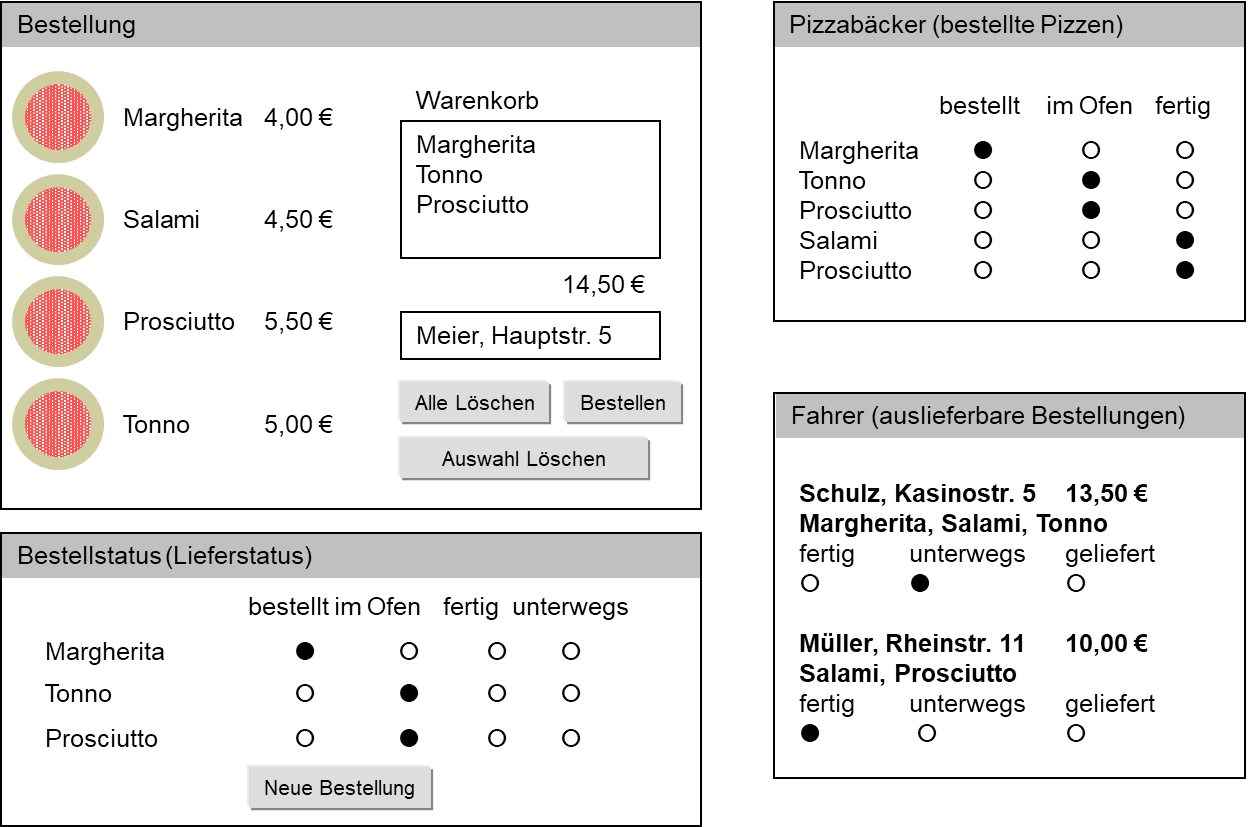
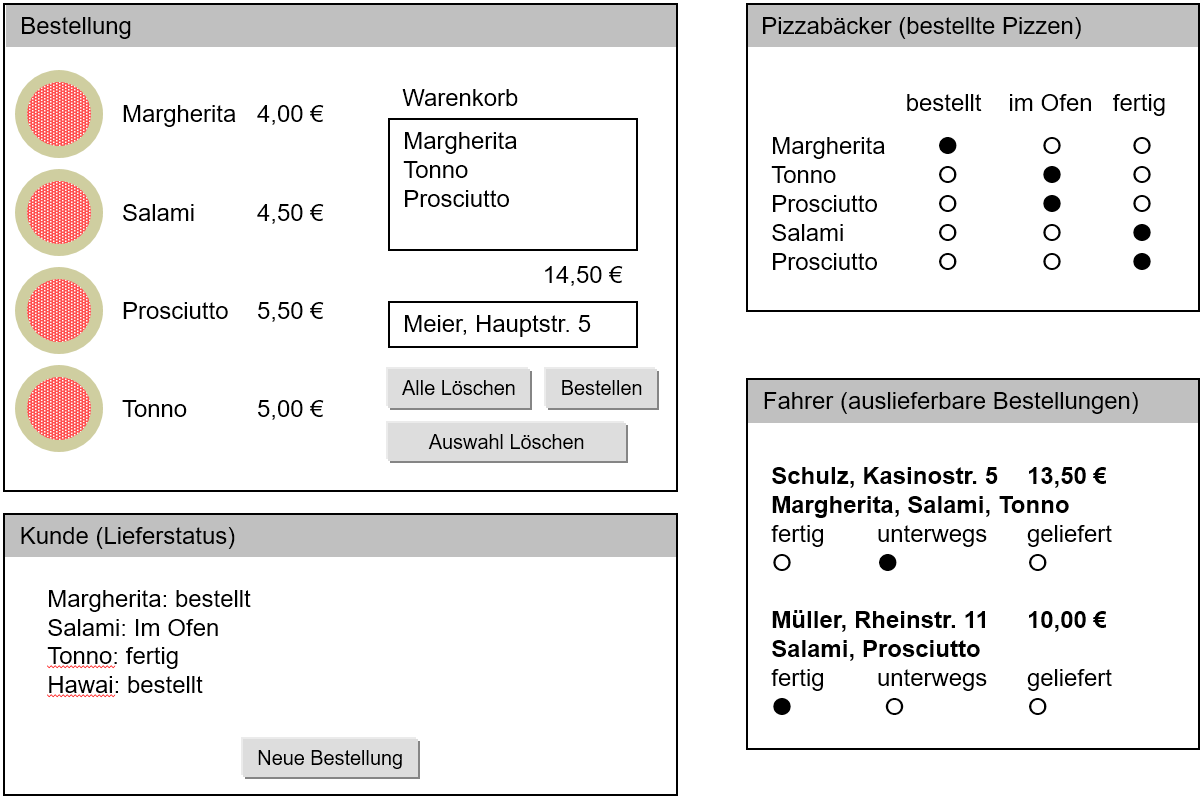
Endlich fertig!?

diff --git a/ewa/ewa2.0/praktikum/v1/html/docs/termin4.md b/ewa/ewa2.0/praktikum/v1/html/docs/termin4.md
@@ -10,7 +10,7 @@
     - [ ] Sie können JSON-Daten clientseitig verarbeiten 
 
 In dieser Einheit geht es um die client-seitige Implementierung der Interaktion zwischen BenutzerIn und Anwendung. Hierfür setzen wir **JavaScript** ein und modifizieren damit die angezeigten Webseite mit Hilfe des DOM (=Document Object Model) – bspw. zum Befüllen des Warenkorbs.
-Ferner steht in dieser Einheit auch die **asynchrone Kommunikation** zwischen Server und Client mittels **AJAX** und **JSON** im Vordergrund, so dass Statusänderungen auf der Kundenseite *ohne* Neuladen der Seite in "Quasi-Echtzeit" sichtbar werden. 
+Ferner steht in dieser Einheit auch die **asynchrone Kommunikation** zwischen Server und Client mittels **AJAX** und **JSON** im Vordergrund, so dass Statusänderungen auf der Kundenseite *ohne* Neuladen der Seite sichtbar werden. 
 
 ## Vorbereitung   
 
@@ -20,28 +20,7 @@ Ferner steht in dieser Einheit auch die **asynchrone Kommunikation** zwischen Se
      **Voraussetzung:** Ihre vier Seiten sind weitgehend vollständig und voll funktional. Es fehlen nur noch das Design und die Interaktionsmöglichkeit mit dem Warenkorb (Einfügen / Löschen / Preisberechnung).
      Zusätzlich haben Sie eine Klasse `KundenStatus` implementiert, die serverseitig die Daten für die Kundenseite liefert.
 
-     1. Implementierung der Bestellfunktionalität mittels JavaScript
-
-        Binden Sie eine gemeinsame EcmaScript-Datei für alle Ihre Webseiten ein. Implementieren Sie anschließend die folgenden Funktionen auf der Bestellseite:  
-
-        1. Ein Klick auf ein Pizzabild trägt diese Pizza in den Warenkorb ein;  
-                bspw. 3 Pizzen bestellen --> 3-mal klicken
-        2. Der Preis der Pizzen im Warenkorb wird berechnet und angepasst, wenn sich der Warenkorb ändert (durch Einfügen oder Löschen).     
-            Tipp: `:::js xxx.toFixed(2)` macht aus einer Zahl xxx einen String mit 2 Nachkommastellen und vermeidet Rundungsfehler!
-        3. "Beleben" Sie die Buttons zum Löschen der Einträge im Warenkorb 
-                    - sowohl "Alle löschen" als auch 
-                    - "(Mehrfach-)Auswahl löschen" (mit Festhalten von Ctrl bei der Auswahl)
-        4. Die Bestellung wird nur abgeschickt, wenn eine Lieferadresse angegeben ist und sich mindestens ein Element im Warenkorb befindet. Ansonsten ist der Bestellknopf deaktiviert.
-
-
-     2. Abschicken von Formularen ohne Submit-Button
-
-        Auf der Bäcker- und Fahrerseite wird bisher ein Submit-Button verwendet, um die Seite abzuschicken.
-
-        1. Ändern Sie die Generierung der Seiten so ab, dass sie abgeschickt werden, wenn ein Radiobutton angeklickt wird.   
-        Tipp: Dazu geben Sie dem &lt;form&gt;, das die Radiobuttons umschließt, eine ID (z.B. `:::html <form id="formid">`) und verwenden diese ID und `onclick` bei den Radiobuttons um das Formular beim Anklicken abzuschicken:  
-        `:::html <input type="radio" name=... 	onclick="document.forms['formid'].submit();" />`
-        1. Entfernen Sie die Submit-Buttons.
+     Machen Sie sich mit EcmaScript und DOM vertraut. Versuchen Sie als Vorbereitung *ernsthaft* die Aufgabe "Clientseitige Interaktion durch EcmaScript" (s.u.) zu lösen. 
 
 !!! warning  
     **Hinweise**:
@@ -67,15 +46,40 @@ Ferner steht in dieser Einheit auch die **asynchrone Kommunikation** zwischen Se
 
 ## Aufgaben
 
+### Clientseitige Interaktion durch EcmaScript
+
+1. Implementierung der Bestellfunktionalität mittels JavaScript
+
+    Binden Sie eine gemeinsame EcmaScript-Datei für alle Ihre Webseiten ein und implementieren Sie anschließend die folgenden Funktionen auf der Bestellseite:  
+
+    - Ein Klick auf ein Pizzabild trägt diese Pizza in den Warenkorb ein;  
+            bspw. 3 Pizzen bestellen --> 3-mal klicken
+    - Der Preis der Pizzen im Warenkorb wird berechnet und angepasst, wenn sich der Warenkorb ändert (durch Einfügen oder Löschen).     
+        Tipp: `:::js xxx.toFixed(2)` macht aus einer Zahl xxx einen String mit 2 Nachkommastellen und vermeidet Rundungsfehler!
+    - "Beleben" Sie die Buttons zum Löschen der Einträge im Warenkorb 
+                - sowohl "Alle löschen" als auch 
+                - "(Mehrfach-)Auswahl löschen" (mit Festhalten von Ctrl bei der Auswahl)
+    - Die Bestellung wird nur abgeschickt, wenn eine Lieferadresse angegeben ist und sich mindestens ein Element im Warenkorb befindet. Ansonsten ist der Bestellknopf deaktiviert.
+
+
+2. Abschicken von Formularen ohne Submit-Button
+
+    Auf der Bäcker- und Fahrerseite wird bisher ein Submit-Button verwendet, um die Seite abzuschicken.
+
+    - Ändern Sie die Generierung der Seiten so ab, dass sie abgeschickt werden, wenn ein Radiobutton angeklickt wird.   
+    Tipp: Dazu geben Sie dem &lt;form&gt;, das die Radiobuttons umschließt, eine ID (z.B. `:::html <form id="formid">`) und verwenden diese ID und `onclick` bei den Radiobuttons um das Formular beim Anklicken abzuschicken:  
+    `:::html <input type="radio" name=... 	onclick="document.forms['formid'].submit();" />`
+    - Entfernen Sie die Submit-Buttons. 
+
+
 ### Aktualisierung der Kundenseite mittels AJAX und JSON
 
 Die Kundenseite soll den Status der Pizzen aktualisieren ohne jedesmal die gesamte Seite neu zu laden. Zwischen Server und Client werden dann nur noch die reinen Daten ausgetauscht und kein HTML-Code mehr. Die Daten werden mit EcmaScript und DOM in die Webseite "eingebaut". Das Anfordern der Daten erfolgt mit AJAX und die Übertragung erfolgt im JSON-Format.  
-Anschließend aktualisiert die Kundenseite (`Kunde.php`) mittels JavaScript und AJAX den Status aller Bestellpositionen in Quasi-Echtzeit, ohne die Seite jeweils neu laden zu müssen. D.h., sobald sich der Status einer Bestellposition auf der Bäcker- oder Fahrer-Seite ändert, soll sich diese Änderung auch auf der Kundenseite widerspiegeln. 
+Anschließend aktualisiert die Kundenseite (`Kunde.php`) mittels JavaScript und AJAX den Status aller Bestellpositionen, ohne die Seite jeweils neu laden zu müssen. D.h., sobald sich der Status einer Bestellposition auf der Bäcker- oder Fahrer-Seite ändert, soll sich diese Änderung auch auf der Kundenseite widerspiegeln. 
 
 Die serverseitige Implementierung, welche die Daten liefert, haben Sie bereits in der letzten Übung implementiert (`KundenStatus.php`).
 
 1. **Schreiben Sie eine EcmaScript-Methode, welche die gelieferten Daten auswertet und über das DOM in die Kundenseite einfügt.**    
-    {++**Zur Vereinfachung dürfen Sie die Anzeige mit Radiobuttons durch eine *textuelle* Anzeige ersetzen. Das heißt, Sie geben einfach für jede Pizza den Status als Text aus (z.B. "Pizza Hawaii: Im Ofen")**. !!!Ohne jQuery, innerhtml & Co. ist das sonst eine elende Fummelei! Wir könnten auch die Designskizze gleich so anpassen!? Warum machen wir überhaupt 3x Radiobuttons?? ++}
      - Rufen Sie die Seite `KundenStatus.php` während einer laufenden Bestellung in einem Browserfenster auf und speichern Sie den gelieferten JSON-String für spätere Tests als Konstante in Ihrer Methode.
      - Binden Sie zu Beginn des HTML-&lt;body&gt; der Kundenseite eine separate JS-Datei ein. Also mit `... <body><script src="StatusUpdate.js"></script>...`
      - Implementieren Sie die EcmaScript-Methode `:::js process()`, die als Parameter einen (JSON-)String erhält, den String mit `:::js JSON.parse` auspackt und mittels DOM in die Kundenseite einfügt.   
@@ -114,7 +118,6 @@ Die serverseitige Implementierung, welche die Daten liefert, haben Sie bereits i
 
 3.  **Führen Sie die Aktualisierung mit AJAX alle 2 Sekunden durch**    
     -  Die Anfrage nach den aktuellen Zuständen einer Bestellung erfolgt mittels zyklisch ausgeführten AJAX-Aufrufen (*=Polling*) durch folgende EcmaScript-Funktion:    
-        {--`:::js setTimeout( function , timeout_in_milliseconds);`--}     
         `:::js window.setInterval	(myfunction, time_in_milliseconds)`   
         Dabei repräsentiert `myfunction` eine JavaScript-Funktion, die zyklisch aufgerufen werden soll. In unserem Fall ist das die Funktion `:::js requestData()` von oben, welche jeweils einen AJAX-Request anlegt und abschickt.
     - Das Polling soll erst starten, nachdem die Seite `Kunde.php` komplett vom Browser geladen und geparst wurde. Bauen Sie den Aufruf im `onload`-Handler ein.
@@ -123,10 +126,14 @@ Die serverseitige Implementierung, welche die Daten liefert, haben Sie bereits i
     !!! note
         **Hinweis**:
         Falls die Aktualisierung immer wieder die gleichen Daten liefert, dann könnte das am Cache Ihres Browsers liegen. 
-        Bauen Sie dann die folgenden Codezeilen am Anfang von `processReceivedData()` in Ihre `KundenStatus.php` ein: 
+        Bauen Sie dann die folgenden Codezeilen ganz am Anfang von `processReceivedData()` in Ihre `KundenStatus.php` ein: 
             ```js  
-            header("Cache-Control: no-cache, must-revalidate"); // HTTP/1.1
+            header("Cache-Control: no-store, no-cache, must-revalidate"); // HTTP/1.1
             header("Expires: Sat, 01 Jul 2000 06:00:00 GMT"); // Datum in der Vergangenheit
+            header("Cache-Control: post-check=0, pre-check=0", false); // fuer IE
+            header("Pragma: no-cache");
+            session_cache_limiter('nocache'); // VOR session_start()!
+            session_cache_expire(0);
             ```
 
 
@@ -163,13 +170,6 @@ Die serverseitige Implementierung, welche die Daten liefert, haben Sie bereits i
 
     - Aufbau der Seite mittels PHP; setzen bzw. aktualisieren der Zustände mit JavaScript
     - 2 separate AJAX-Requests: (a) pollt Statusupdates, (b) fragt Controller nach neuen Bestellungen; wenn neue Bestellung, dann Redirect im AJAX-Handler auf Kunde.php, d.h., Neuaufbau der Seite mit aktueller Bestellung)  -->
-
-
-TODO:
-
-- SZA liefert header-code für JSON
-- SZA liefert code gegen caching
-- 
 
 ## Nachbereitung
 Setzen Sie noch eventuell fehlende Teile der obigen Aufgabe bis zum nächsten Praktikumstermin um. 

diff --git a/ewa/ewa2.0/praktikum/v1/html/docs/termin2.md b/ewa/ewa2.0/praktikum/v1/html/docs/termin2.md
@@ -17,25 +17,18 @@ Ziel dieser Einheit ist die Entwicklung von sauberem, d.h., gut wartbarem,  stru
 
       **Voraussetzung:** Die vier in [Termin 1](termin1.md) erstellten PHP-Seiten werden ordnungsgemäß vom Webserver ausgeliefert und erzeugen  standardkonformen HTML-Code.
       
-      1. Laden Sie die **Zulieferung** für das Praktikum von der [EWA-Moodleseite](https://lernen.h-da.de/course/view.php?id=6940) herunter und machen Sie sich mit dem Inhalt vertraut:    
-      {++Machen wir einen gemeinsamen Kurs? Wer?++}   
+      1. Laden Sie die **Zulieferung** für das Praktikum von der EWA-Moodleseite herunter und machen Sie sich mit dem Inhalt vertraut:      
          - `PageTemplate.php` dient als Vorlage für die Seiten `Bestellung.php`, `Kunde.php`, `Baecker.php` und `Fahrer.php`    
          - `Page.php` ist die gemeinsame Basisklasse dieser 4 Seiten-Klassen und soll die Datenbank öffnen und schließen und den HTML-Rahmen erzeugen
          - `BlockTemplate.php` dient (optional) als Vorlage für einzelne Blöcke innerhalb der Seiten
          - `Pizzaservice_Documentation.pdf` enthält eine Dokumentation der Klassen mit Klassendiagramm und Sequenzdiagramm.
-      1. Versuchen Sie mit der Dokumentation und dem Quellcode das **Zusammenspiel der verschiedenen Klassen** zu verstehen. Klären Sie folgende Fragen:    
+      2. Versuchen Sie mit der Dokumentation und dem Quellcode das **Zusammenspiel der verschiedenen Klassen** zu verstehen. Klären Sie folgende Fragen:    
          - Wo erfolgt der eigentliche Aufruf zur Erstellung einer HTML-Seite?
          - Was tun die Methoden `getViewData()`, `generateView()` und `processReceivedData()`? In welcher Reihenfolge werden sie aufgerufen?
          - Wo wird der HTML-Rahmen mit &lt;body&gt; und &lt;head&gt; erzeugt? Wo wird er ausgegeben?
-      2. Entwerfen Sie das **Datenmodell** für Ihren Pizzaservice. 
-      Nutzen Sie bspw. das folgende Schema:
-       {--     ``` 
-            Angebot:         PizzaName, Bilddatei, Preis
-            BestelltePizza:  PizzaID, fBestellungID, fPizzaName, Status
-            Bestellung:      BestellungID, Adresse, Bestellzeitpunkt
-            ```
-      --}    
-      {++Die Pizza über den Namen zu referenzieren ist eigentlich ungeschickt. Eine eindeutige PizzaNummer wäre doch besser!?...++}
+      3. Entwerfen Sie das **Datenmodell** für Ihren Pizzaservice. 
+      Nutzen Sie beispielsweise das folgende Schema:
+
             ``` 
             Angebot:         PizzaNummer, PizzaName, Bilddatei, Preis
             BestelltePizza:  PizzaID, fBestellungID, fPizzaNummer, Status
@@ -96,11 +89,17 @@ Am besten führen Sie die folgenden Aufgaben zuerst für **eine** der Seiten (z.
         - Prüfen Sie mit `phpMyAdmin` ob die Datenbankeinträge korrekt erstellt werden. Denken Sie daran, die Formulare so anzupassen, dass sie ihre Daten nicht mehr an die Echo-Skripte schicken, sondern an die tatsächliche Zielseite.
         - Eine geschickte Datenbankabfrage (z.B. mit einem `JOIN` oder `ORDER BY`) kann Ihnen viel Implementierungsaufwand ersparen.
 
-{++ ###Auflösung von Blockierungen bei Aktualisierungen
-Wenn eine Webseite geladen wird, die ein Formular enthält, das zuvor mittels POST Daten übertragen hat, dann erscheint ein (recht unverständliches) Popup.
-![](./figures/POST_ReloadPopup.png)*Popup durch Reload mit POST-Daten)* Diese Blockierung können Sie auflösen, indem Sie die Seite aus der Seite selbst *ohne Daten* neuladen, nachdem Sie die Daten in processReceivedData() verarbeitet haben. Der PHP-Befehl `:::php header('Location: http://meineSeite.php/');` lädt eine beliebige Seite. Achten Sie aber darauf, dass dieser "Redirect" wirklich nur dann ausgeführt wird, wenn Sie auch tatsächlich Daten empfangen haben - ansonsten entsteht eine Endlosschleife.    
+### Auflösung von Blockierungen bei Aktualisierungen
+Wenn eine Webseite mit einem Formular geladen wird, das zuvor mittels POST Daten gesendet hat, dann bringt der Browser ein (recht unverständliches) Popup und blockiert dadurch die Aktualisierung.
+![](./figures/POST_ReloadPopup.png)*Popup durch Reload mit POST-Daten)*      
+Lösen Sie diese Blockierung auf, indem Sie beim Aufruf der Seite zuerst die Daten verarbeiten und dann die Seite (ohne Daten) neuladen:     
+
+ - Verarbeiten Sie die Daten in processReceivedData() 
+ - laden Sie mit dem  PHP-Befehl `:::js header('Location: http://meineSeite.php/');` die gleiche Seite erneut - aber dieses mal ohne Daten. 
+ - Jetzt können Sie die Seite ohne Blockierung aktualisieren.    
+ 
+Achten Sie aber darauf, dass dieser "Redirect" wirklich nur dann ausgeführt wird, wenn Sie auch tatsächlich Daten empfangen haben - ansonsten entsteht eine Endlosschleife.    
 **Hinweis**: Das Umstellen der Übertragung auf GET ist keine zulässige Lösung!
-++}
 
 ## Nachbereitung
 Setzen Sie noch fehlende Teile der obigen Aufgabe bis zum nächsten Praktikumstermin um. 

diff --git a/ewa/ewa2.0/praktikum/v1/html/docs/termin4_5.md b/ewa/ewa2.0/praktikum/v1/html/docs/termin4_5.md
@@ -8,7 +8,7 @@ Ziel dieser Einheit ist die Entwicklung eines **Design Schemas** für Ihre Web-A
     - [ ] Sie kennen die Basiselemente von CSS zur Gestaltung eines Designs  
     - [ ] Sie können ein responsives Webdesign mit CSS und Media Queries erstellen
     - [ ] Sie können ein selbst erstelltes Design Schema in Ihre Webseiten einbinden 
-    - [ ] Sie kennen Syntax und Logik der Formulierung von CSS Selektoren {++ Welche Selektoren meinst Du? Ich finde nicht, dass man die komplizierten Fälle in den Grundlagen braucht!? ++}
+    - [ ] Sie kennen Syntax und Logik der Formulierung von CSS Selektoren
 
 !!! warning
     **Selbständige Vorbereitung:**     
@@ -22,14 +22,13 @@ Entwickeln Sie ein **ansprechendes Style Sheet** für Ihre Web-Applikation und b
  - Überlegen Sie sich zu diesem Zweck ein **Design-Schema** mit Farben, Schriftarten, Schriftgrößen, Abständen, Rändern, Ausrichtung, etc.
  - Verwenden Sie *keine* physische Formatierung in HTML und auch *kein* `style`-Attribut
  - Setzen Sie die verschiedenen Maßeinheiten sinnvoll ein. Das Layout soll hinsichtlich Fenstergröße und Schriftgröße dynamisch sein!
- - Verwenden Sie möglichst *keine* Tabellen! {++ Wie streng sehen wir das? ++}
  - Prüfen Sie das Ergebnis mit dem CSS-Validator
  - Testen Sie Ihr Style Sheet mit unterschiedlichen Browsern und validieren Sie die Standardkonformität mittels eines "CSS Validators". Besonders bei unerwartetem Verhalten des Browsers gibt ein Validator wertvolle Hinweise auf die mögliche Ursache der Probleme.
 Nutzen Sie <https://jigsaw.w3.org/css-validator/#validate_by_input> und korrigieren Sie etwaige Fehler und Warnungen.
 
 ### Responsives Layout und Mobile-First-Ansatz
 
-Realisieren Sie die Darstellung der Seite `Bestellung.php` nach dem **Mobile-First-Ansatz**. {++ Mir ist nicht klar was das konkret bedeutet. Was soll denn passieren? ++}
+Realisieren Sie die Darstellung der Seite `Bestellung.php` nach dem **Mobile-First-Ansatz**. Das heißt, Sie entwickeln die Seite zuerst im Hinblick auf eine gute *User Experience* (UX) auf dem Handy und erst dann für einen PC-Bildschirm.
 
  - Entwickeln bzw. erweitern Sie das gegebene Stylesheet für den Einsatz auf Mobiltelefonen durch die Verwendung von **Media Queries**
  - Passen Sie die Komposition der Elemente dynamisch der entspr. **Viewportgröße** und **Orientierung** an
@@ -45,8 +44,8 @@ Realisieren Sie die Darstellung der Seite `Bestellung.php` nach dem **Mobile-Fir
     - [x] Demonstration eines responsiven Webdesigns mit Media Queries am Beispiel der Bestellseite
 
 
-{--!!! note
-    **Hinweis #1**: Sie können für das Design Ihres Shopsystems ein CSS-Framework wie [Bootstrap](https://getbootstrap.com/) verwenden. Bitte beachten Sie jedoch, dass Sie in der Klausur *nicht* auf Bootstrap zurück greifen dürfen und stattdessen die CSS-Stilregeln "von Hand" erstellen müssen.--}
+!!! note
+    **Hinweis**: Sie können für das Design Ihres Shopsystems ein CSS-Framework wie [Bootstrap](https://getbootstrap.com/) verwenden, um ein besonders ausgefeiltes Design zu erhalten. Bitte beachten Sie jedoch, dass Sie in der Klausur *nicht* auf Bootstrap zurück greifen dürfen und stattdessen die CSS-Stilregeln "von Hand" erstellen müssen.
 
 
 !!! warning

diff --git a/ewa/ewa2.0/praktikum/v1/html/docs/termin5.md b/ewa/ewa2.0/praktikum/v1/html/docs/termin5.md
@@ -34,11 +34,10 @@ Für eine erfolgreiche Abnahme müssen **alle Punkte** erfüllt sein!
     **Checkliste**
 
     1. Allgemeines
-         - [ ] Konsequente Verwendung der PHP-Seitenklassen für alle Seiten und auch für den PHP Controller {++Für mich ist das kein Controller (vgl. MVC)! Deshalb habe ich mich um den Namen drumrumgedrückt++}
-         - [ ] Alle generierten Seiten werden vom W3C Validator als fehlerfrei erkannt {++ und HTML Lint zeigt keine Meldungen mit Schwierigkeitsgrad > 2 ?++}
+         - [ ] Konsequente Verwendung der PHP-Seitenklassen für alle Seiten 
+         - [ ] Alle generierten Seiten werden vom W3C Validator als fehlerfrei erkannt und "HTML Lint" zeigt keine Meldungen mit Schwierigkeitsgrad > 2.
          - [ ] Die Web-Applikation ist gesichert gegen Cross-Site-Scripting (XSS) und gegen SQL-Injection
          - [ ] Erfasste Daten werden (bis auf Angriffsversuche) unverändert in die Datenbank geschrieben 
-         - [ ] Es sind keine Tabellen im HTML-Code enthalten {++Das wird knifflig mit so wenig CSS!? Wenn, dann auch vorne fordern!++} 
          - [ ] Es gibt entweder eine Übersichtsseite oder eine ausblendbare Navigationsleiste mit Links zu den 4 Hauptseiten. 
     2. Funktion 
          - [ ] Eine direkt in die Datenbank eingetragene Pizza erscheint nach einem Reload auf der Speisekarte
@@ -52,9 +51,8 @@ Für eine erfolgreiche Abnahme müssen **alle Punkte** erfüllt sein!
          - [ ] Bestellungen verschwinden nach der Auslieferung von der Fahrerseite 
          - [ ] HTML-Tags im Adressfeld einer Bestellung (XSS) werden auf der Fahrerseits **nicht** ausgeführt
     3. Layout
-         - [ ] Responsives Layout + Verwendung von Media Queries {++ Was heißt das konkret ++}
          - [ ] Ansprechendes Design
-         - [ ] Auf der Bestellseite rutscht der Warenkorb je nach Bildschirmbreite neben oder unter die Speisekarte
+         - [ ] Auf der Bestellseite verwenden Sie Media Queries um ansprechende Layouts für mindestens 2 Bildschirmformate umzusetzen. Der Warenkorb rutscht je nach Bildschirmbreite und Ausrichtung neben oder unter die Speisekarte
          - [ ] Keine Verwendung von absoluten Maßeinheiten (außerhalb von Media Queries)
 
 

diff --git a/ewa/ewa2.0/praktikum/v1/html/docs/termin3.md b/ewa/ewa2.0/praktikum/v1/html/docs/termin3.md
@@ -56,7 +56,7 @@ In der finalen Lösung der Kundenseite sollen die Statusinformationen zu den Piz
 
 Erstellen Sie baierend auf `PageTemplate.php` eine **neue Seitenklasse** mit Namen `KundenStatus.php`. Diese Seite soll **keine HTML-Ausgabe** erzeugen, sondern "nur" die Statusdaten der bestellten Pizzen zurückliefern. 
    
-Bitte beachten Sie folgende Hinweise: {++ Geht das nicht so einfach? Mache ich einen Denkfehler? Warum hattest Du eine neue Basisklasse gefordert? ++}
+Bitte beachten Sie folgende Hinweise: 
 
 1. Passen Sie die Inhalte der Standardmethoden der Seitenklassen an:
     - processReceivedData(): bleibt leer, da keine Formulardaten empfangen werden sollen
@@ -68,6 +68,8 @@ Fragen Sie diese Daten gezielt bei der Datenbank ab. Verwenden Sie analog zur Au
 3. Die Datenbankabfrage liefert ein "Recordset", dessen Objekte nur mit den Methoden vom MySQLi abgefragt werden können. Deshalb ist es für die Übertragung an den Browser ungeeignet. Wandeln Sie das Recordset um in ein **einziges** Array, das - analog zum Recordset - ein assoziatives Array für jede Ergebniszeile enthält (also ein Array von assoziativen Arrays).
 4. Das Datenformat **JSON** bietet die Möglichkeit komplexe Datenstrukturen und Objekte zu einem String zu serialisieren und anschließend wieder zusammenzusetzen. Das ist sehr praktisch, wenn man komplexe Datensätze z.B. von PHP an einen Webbrowser schicken will.
 
+    - Als erstes (also zu Beginn der Methode `processReceivedData`) müssen Sie den Nachrichtenheader auf JSON setzen:    
+      `:::js header("Content-Type: application/json; charset=UTF-8");`
     - Den serialisierten JSON-String erzeugen Sie mittels    
     `:::js $serializedData = json_encode($Array_mit_Daten_aus_Recordset);`
     - Versenden Sie den serialisierten JSON-String als Antwort mit `:::js echo $serializedData`!

diff --git a/ewa/ewa2.0/praktikum/v1/html/docs/vorbemerkung.md b/ewa/ewa2.0/praktikum/v1/html/docs/vorbemerkung.md
@@ -32,7 +32,7 @@ Es geht in EWA *nicht* um Homepage-Bastelei oder die Verwendung von "Fertigteile
 !!! warning
     - Nicht die Funktionalität steht im Vordergrund, sondern die **Integration** der verschiedenen Techniken und die **Vorgehensweise**.
     - Die reine Umsetzung der Funktionalität des Shopsystems reicht *nicht* für die Abnahme! Die **objektorientierte Umsetzung** mit **Seitenklassen** ist ein Pflichtbestandteil!
-    - Die Aufgabe muss mit den in der Veranstaltung behandelten (grundlegenden) Techniken gelöst werden! **Der Einsatz von Frameworks wie bspw.&nbsp;jQuery oder Bootstrap ist nicht gestattet!** 
+    - Die Aufgabe muss mit den in der Veranstaltung behandelten (grundlegenden) Techniken gelöst werden! **Der Einsatz von Frameworks wie bspw.&nbsp;jQuery ist nicht gestattet!** 
 
 ## Organisatorisches
 

diff --git a/ewa/ewa2.0/praktikum/v1/html/docs/anforderungen.md b/ewa/ewa2.0/praktikum/v1/html/docs/anforderungen.md
@@ -26,7 +26,7 @@ Für die PHP-Entwicklung müssen **Seiten-Templates** (--> siehe [Termin 2: PHP 
 
 <!-- ![](./figures/designskizze.png)*Konzeptionelle Darstellung der vier Web-Seiten des Pizzaservice bzw. Onlineshops* -->
 Die folgende Designskizze zeigt grob den erwarteten Inhalt und die Bedienelemente der zu entwickelnden Webseiten. Es sollen 4 getrennte Seiten entwickelt werden: `Bestellung`, `Pizzabäcker`, `Kunde` und `Fahrer`.  
-![](./figures/DesignskizzePizzaservice.png)*Designskizze - nur Funktionen, kein Layout)*
+![](./figures/DesignskizzePizzaservice.png)*Designskizze - nur Funktionen, kein Layout*
 
 - **Pizzabestellung**
 
